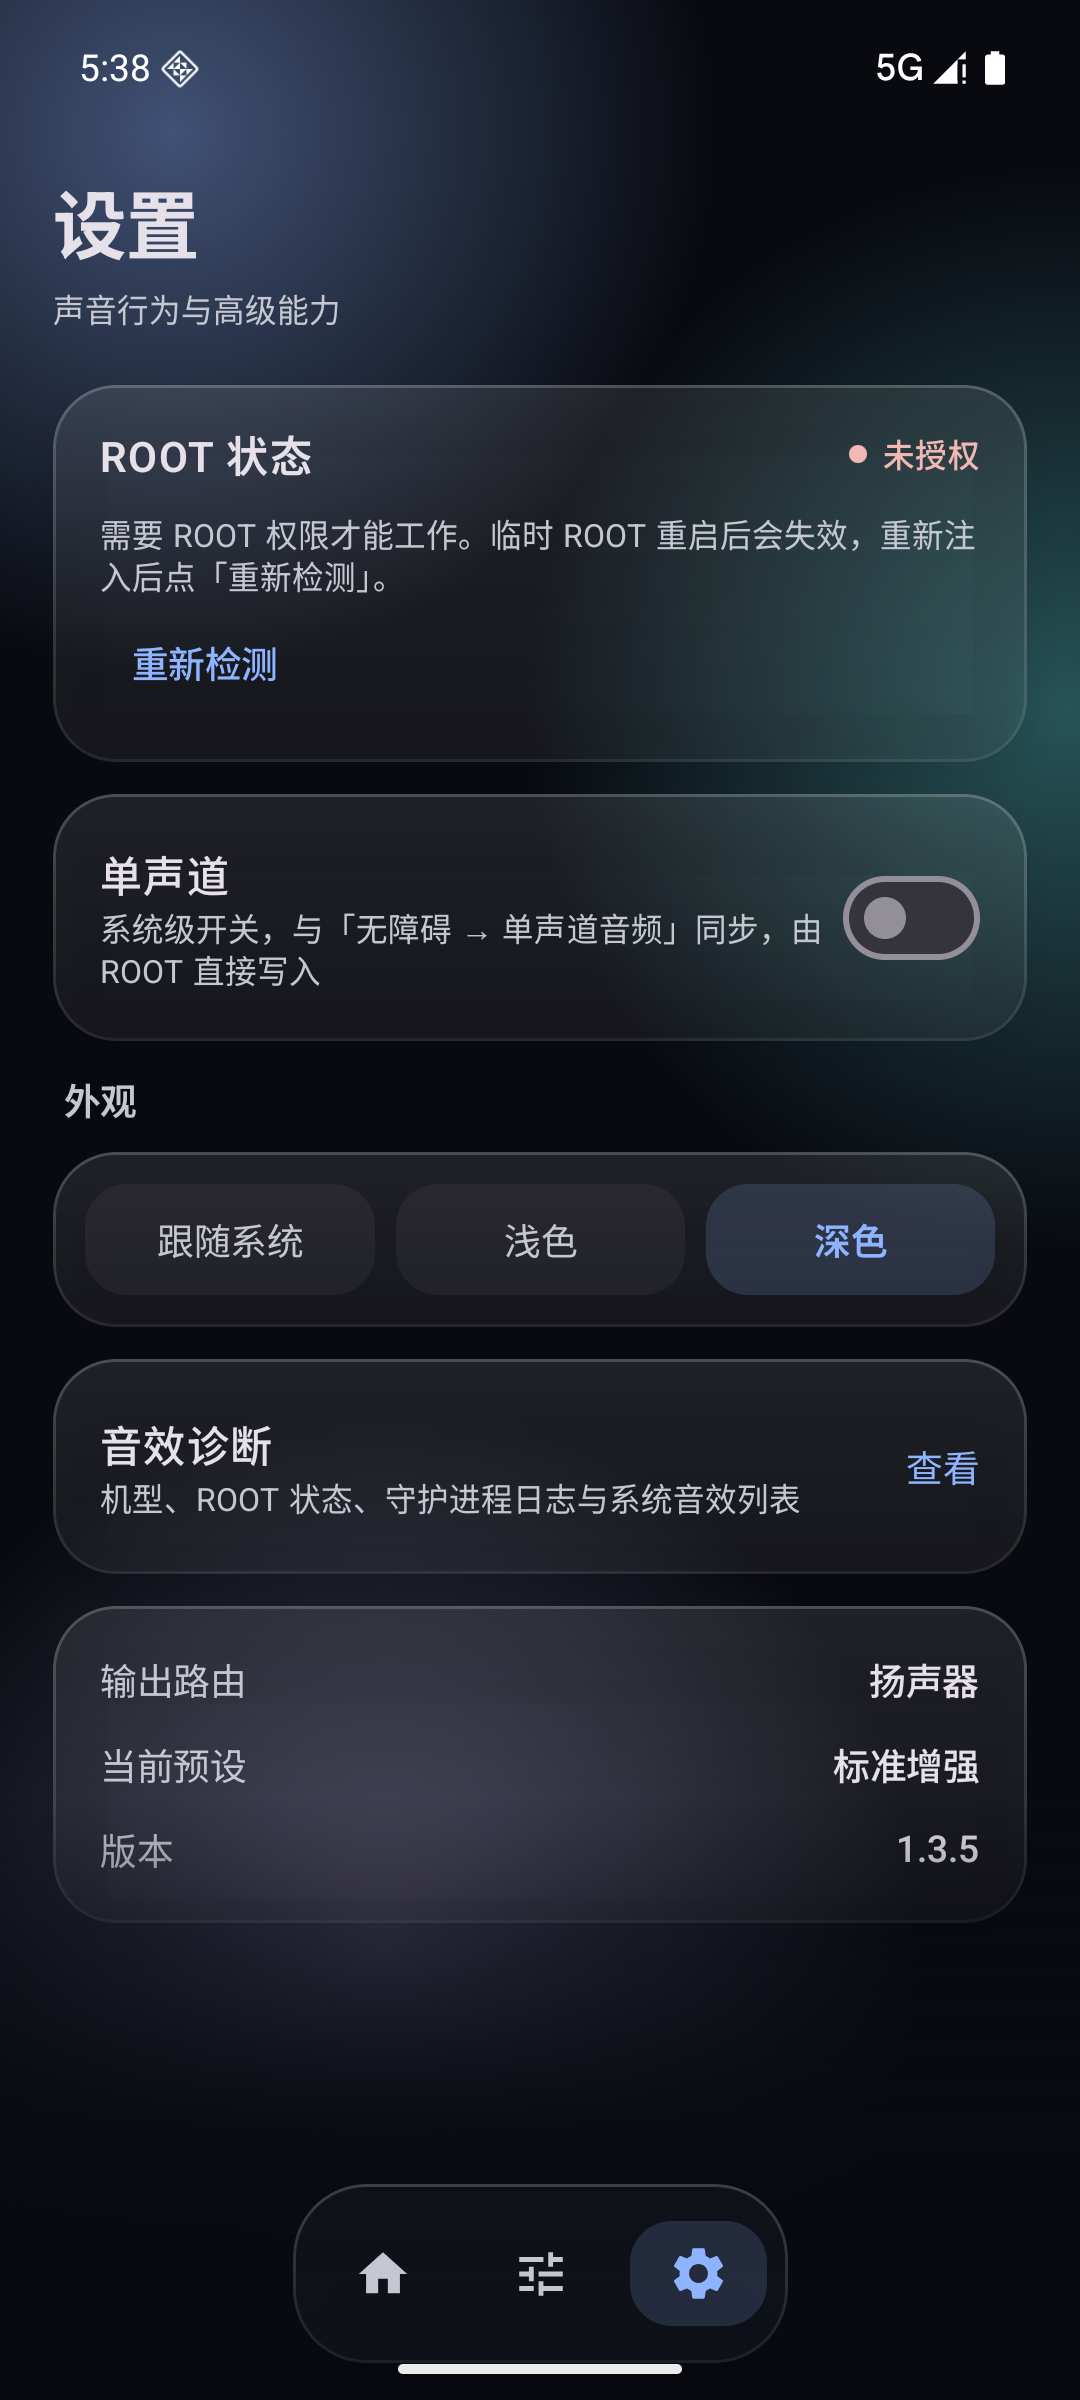
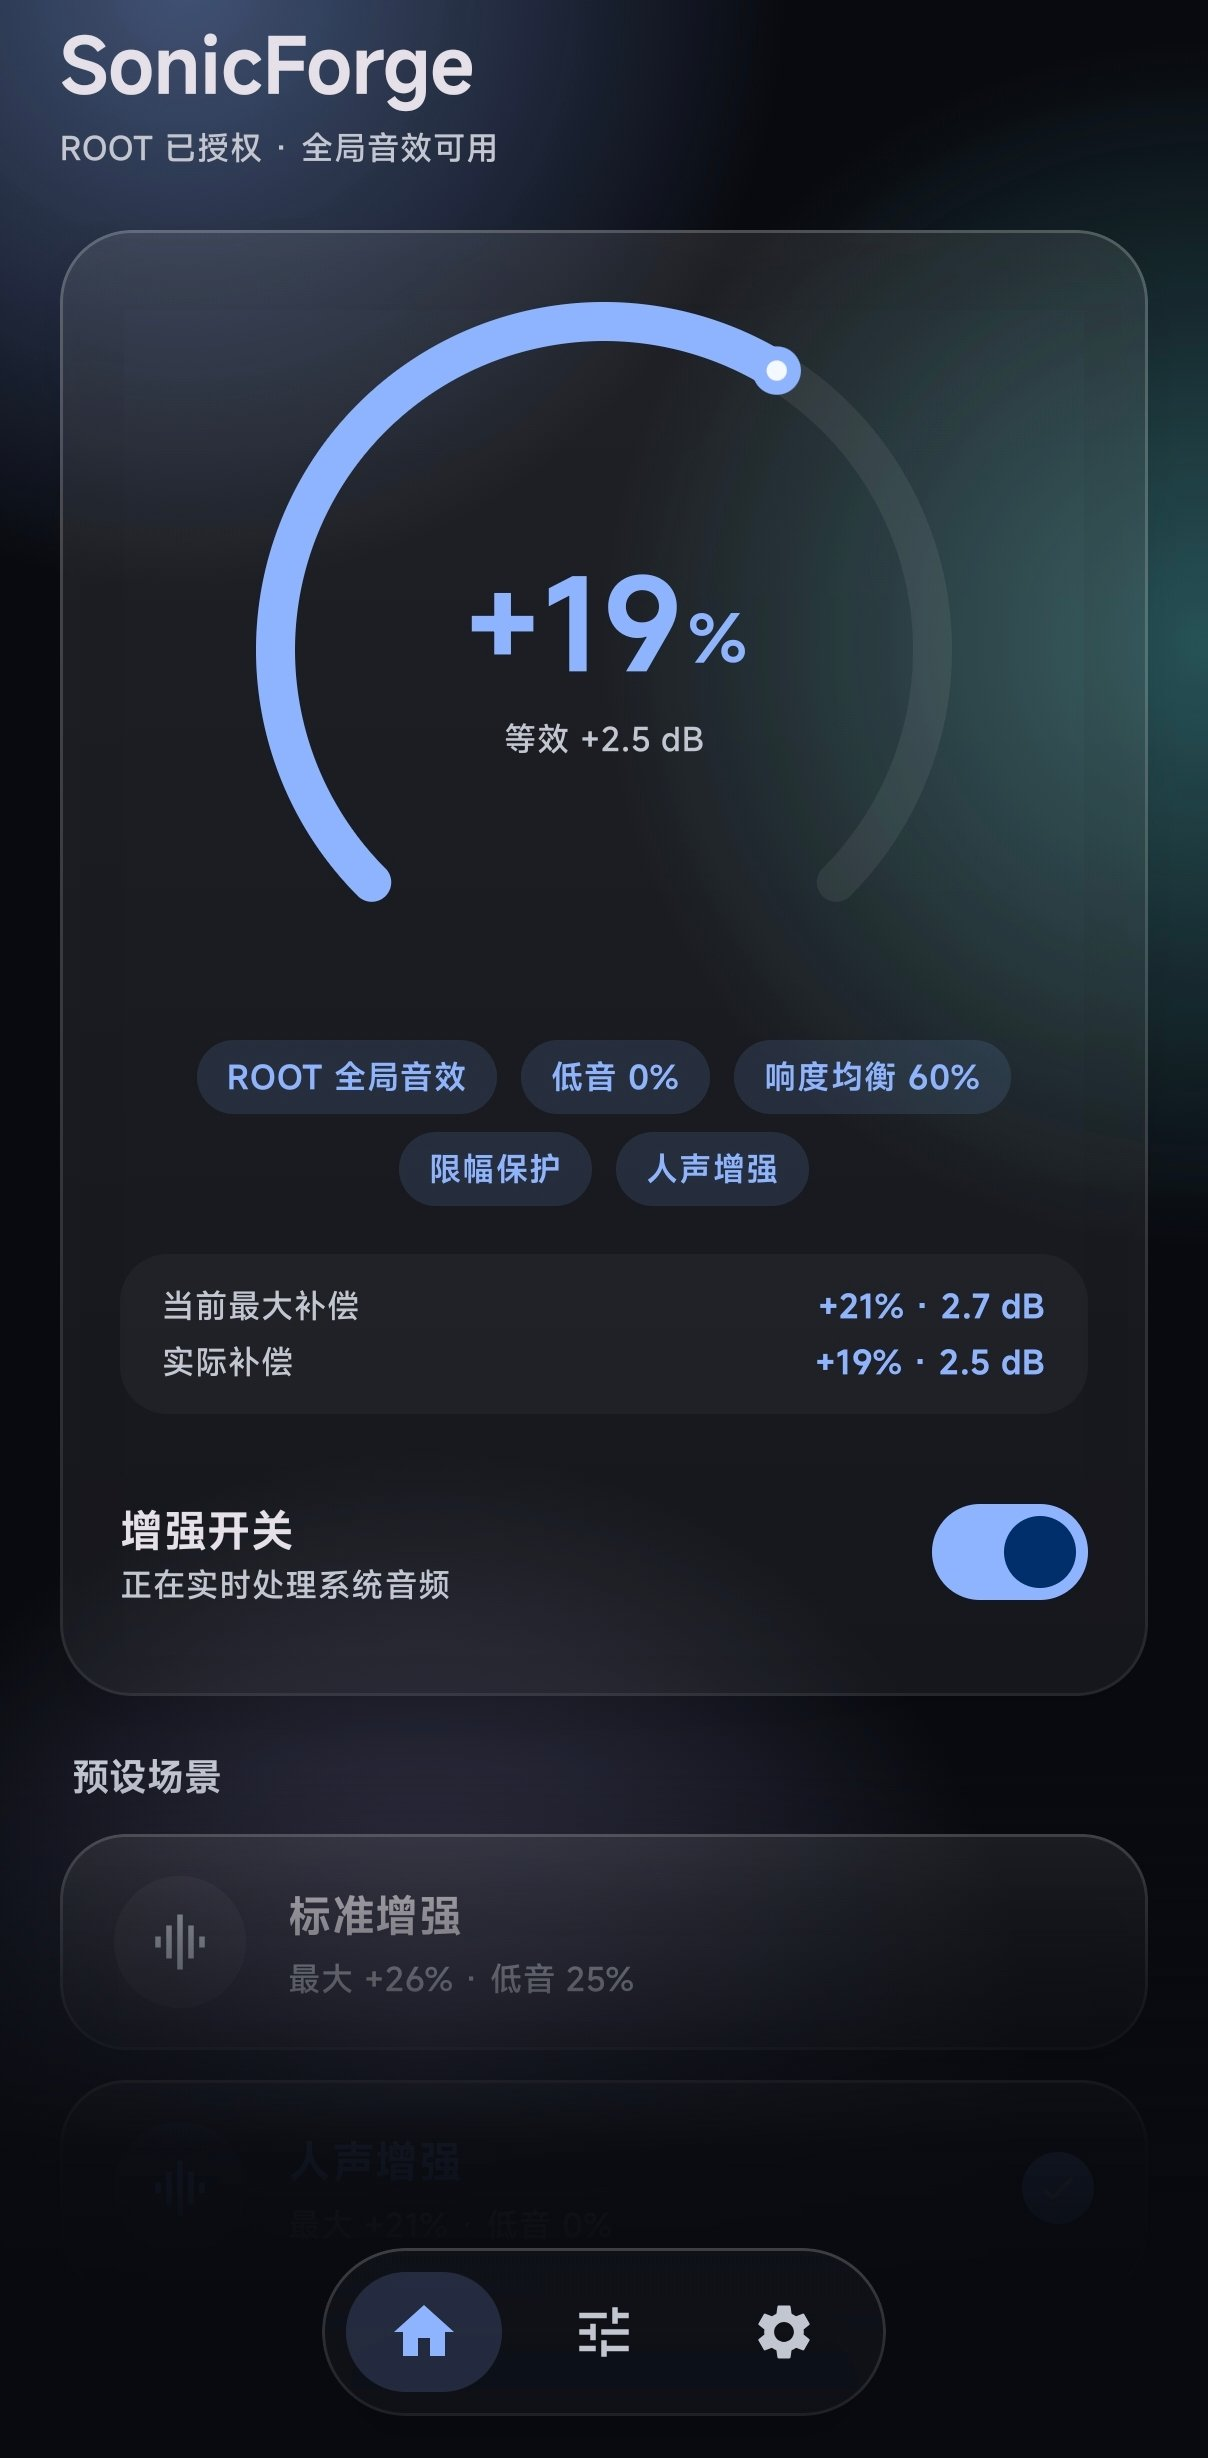
docs: 更新 1.6.0 真机截图，三张统一为 1208x2458
三张图按顶部对齐裁到同一尺寸，Dock 完整保留；README 首图改用新版深色主页，并同步正文里的补偿数值（+19% / +2.5 dB）

diff --git a/README.md b/README.md
@@ -7,14 +7,14 @@
 > **只支持 ROOT。** 普通 App 在 `audioSession = 0` 创建全局音效会被 AudioFlinger 以缺少 `MODIFY_AUDIO_ROUTING` 拒绝，HyperOS 上还有杜比 / 小米音效抢占 session 0 的链路 —— 免 ROOT 的路在真机上根本走不通。所以本应用把整条效果链搬进 **uid 0 的守护进程**，没有普通模式，也没有降级模式。
 
 <p align="center">
-  <img src="docs/screenshots/home-light.png" width="30%" alt="主页：实际补偿 +23% · 等效 +3.0 dB" />
+  <img src="docs/screenshots/home-dark.png" width="30%" alt="主页：实际补偿 +19% · 等效 +2.5 dB" />
   <img src="docs/screenshots/equalizer.png" width="30%" alt="调节：增益上限与 10 段均衡器" />
   <img src="docs/screenshots/settings.png" width="30%" alt="设置：ROOT 状态、单声道、外观、音效诊断" />
 </p>
 
 <p align="center"><sub>真机截图（SonicForge 1.6.0，Android 17 / HyperOS）：主页 · 调节 · 设置</sub></p>
 
-> 截图取自真机、ROOT 已授权、增强已开启的实时状态：大圆弧是随系统媒体音量折算后的**实际补偿**（+23% ≈ +3.0 dB），下面两行分别是「当前最大补偿」和「实际补偿」。音量推高时这两个数会一起变小，满音量归零。
+> 截图取自真机、ROOT 已授权、增强已开启的实时状态：大圆弧是随系统媒体音量折算后的**实际补偿**（+19% ≈ +2.5 dB），下面两行分别是「当前最大补偿」和「实际补偿」。音量推高时这两个数会一起变小，满音量归零。
 
 ## 功能
 
